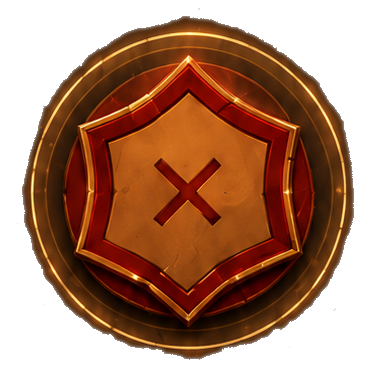
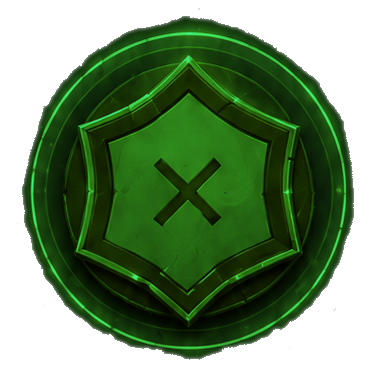
fix(map+boss): green active node, 10% edge padding, drunk gamble capped at expedition sips

diff --git a/app/game/[gameId]/boss/[bossId]/page.tsx b/app/game/[gameId]/boss/[bossId]/page.tsx
@@ -62,6 +62,10 @@ export default function BossFightPage({ params }: Props) {
   // Drunk gamble mechanic
   const [drunkModal, setDrunkModal] = useState(false);
   const [drunkSips, setDrunkSips] = useState(1);
+  // Keep drunkSips in range [1, offerSpent] whenever offerSpent loads/changes
+  useEffect(() => {
+    if (offerSpent > 0) setDrunkSips((prev) => Math.min(prev, offerSpent));
+  }, [offerSpent]);
 
   // Free action (secret room advantage)
   const freeActionUsedKey = `boss_free_action_used_${gameId}_${teamId}_${bossId}`;
@@ -814,16 +818,19 @@ export default function BossFightPage({ params }: Props) {
             <div className="flex items-center gap-6 justify-center mb-6">
               <button
                 onClick={() => setDrunkSips(Math.max(1, drunkSips - 1))}
-                className="w-11 h-11 rounded-full text-amber-400 text-2xl font-bold border border-amber-800/40 flex items-center justify-center"
+                disabled={drunkSips <= 1}
+                className="w-11 h-11 rounded-full text-amber-400 text-2xl font-bold border border-amber-800/40 flex items-center justify-center disabled:opacity-30"
                 style={{ background: "rgba(20,12,4,0.9)" }}
               >−</button>
               <div className="text-center min-w-[48px]">
                 <div className="text-4xl font-bold text-amber-200">{drunkSips}</div>
                 <div className="text-[10px] text-stone-600 mt-0.5">{drunkSips === 1 ? "slurk" : "slurke"}</div>
+                <div className="text-[9px] text-amber-900 mt-1">max {offerSpent}</div>
               </div>
               <button
-                onClick={() => setDrunkSips(Math.min(10, drunkSips + 1))}
-                className="w-11 h-11 rounded-full text-amber-400 text-2xl font-bold border border-amber-800/40 flex items-center justify-center"
+                onClick={() => setDrunkSips(Math.min(offerSpent, drunkSips + 1))}
+                disabled={drunkSips >= offerSpent}
+                className="w-11 h-11 rounded-full text-amber-400 text-2xl font-bold border border-amber-800/40 flex items-center justify-center disabled:opacity-30"
                 style={{ background: "rgba(20,12,4,0.9)" }}
               >+</button>
             </div>
@@ -866,15 +873,18 @@ export default function BossFightPage({ params }: Props) {
 
           {/* Drunk gamble button */}
           <button
-            className="flex-1 flex flex-col items-center justify-center py-2 rounded-xl font-bold text-stone-900"
+            className="flex-1 flex flex-col items-center justify-center py-2 rounded-xl font-bold text-stone-900 disabled:opacity-40"
             style={{
-              background: "linear-gradient(135deg, #b87010, #e0a020)",
+              background: offerSpent > 0 ? "linear-gradient(135deg, #b87010, #e0a020)" : "rgba(60,40,10,0.4)",
               fontFamily: "Georgia, serif",
             }}
-            onClick={() => setDrunkModal(true)}
+            onClick={() => offerSpent > 0 && setDrunkModal(true)}
+            disabled={offerSpent === 0}
           >
             <span className="text-sm tracking-widest">🍺 BERUSE BOSSEN</span>
-            <span className="text-[9px] font-normal opacity-70 tracking-wide">50/50 — bossen eller holdet drikker</span>
+            <span className="text-[9px] font-normal opacity-70 tracking-wide">
+              {offerSpent > 0 ? `50/50 — op til ${offerSpent} slurke` : "Ingen slurke at satse endnu"}
+            </span>
           </button>
 
           {/* Retreat */}

diff --git a/app/game/[gameId]/team/[teamId]/page.tsx b/app/game/[gameId]/team/[teamId]/page.tsx
@@ -35,7 +35,7 @@ const CH1_NODES = [
   { id: "fridge",       cx: 170, cy: 352, r: 10, shift: 4, isSecret: false },
   { id: "terrace",      cx: 170, cy: 267, r: 10, shift: 6, isSecret: false },
   { id: "shed",         cx: 170, cy: 185, r: 10, shift: 3, isSecret: false },
-  { id: "coffee-table", cx: 228, cy: 395, r:  9, shift: 1, isSecret: true  },
+  { id: "coffee-table", cx: 215, cy: 395, r:  9, shift: 1, isSecret: true  },
 ] as const;
 
 const CH1_PATHS = [
@@ -43,7 +43,7 @@ const CH1_PATHS = [
   { from: "fridge",       to: "terrace",        d: "M170,339 L170,280",                         secret: false },
   { from: "terrace",      to: "shed",           d: "M170,254 L170,198",                         secret: false },
   { from: "shed",         to: "boss",           d: "M170,172 L170,132",                         secret: false },
-  { from: "kitchen",      to: "coffee-table",   d: "M181,432 C200,420 214,410 217,397",         secret: true  },
+  { from: "kitchen",      to: "coffee-table",   d: "M181,432 C196,422 207,411 204,396",         secret: true  },
 ];
 
 // ─── Node visual states ─────────────────────────────────────────────────────
@@ -282,12 +282,12 @@ export default function TeamQuestBoardPage({ params }: Props) {
             fill="#d4a832" letterSpacing={3} filter="url(#titleShadow)" opacity={0.96}>
             SOMMERHUSET
           </text>
-          <line x1="90"  y1="50" x2="128" y2="50" stroke="#d4a832" strokeWidth={0.7} opacity={0.55} />
+          <line x1="112" y1="50" x2="140" y2="50" stroke="#d4a832" strokeWidth={0.7} opacity={0.55} />
           <text x="170" y="56" textAnchor="middle" fontFamily="Georgia,serif" fontSize={6}
             fill="#d4a832" letterSpacing={5} filter="url(#titleShadow)" opacity={0.8}>
             KAPITEL I
           </text>
-          <line x1="212" y1="50" x2="250" y2="50" stroke="#d4a832" strokeWidth={0.7} opacity={0.55} />
+          <line x1="200" y1="50" x2="228" y2="50" stroke="#d4a832" strokeWidth={0.7} opacity={0.55} />
 
           {/* ── Fog band ── */}
           <text x="170" y="178" textAnchor="middle" fontFamily="Georgia,serif" fontSize={7} fill="#8a6520" letterSpacing={2} opacity={0.6} fontStyle="italic">
@@ -304,7 +304,7 @@ export default function TeamQuestBoardPage({ params }: Props) {
               opacity={pathOpacity(from, to, secret)}
             />
           ))}
-          <text x="244" y="412" textAnchor="middle" fontFamily="Georgia,serif" fontSize={5.5} fill="#3ab8c8" opacity={0.75} letterSpacing={1}>hemmeligt</text>
+          <text x="215" y="412" textAnchor="middle" fontFamily="Georgia,serif" fontSize={5.5} fill="#3ab8c8" opacity={0.75} letterSpacing={1}>hemmeligt</text>
 
           {/* ── Boss node ── */}
           <g onClick={() => { if (canInteract && chapter) router.push(`/game/${gameId}/boss/${chapter.bossId}?team=${teamId}`); }} style={{ cursor: canInteract ? "pointer" : "default" }}>